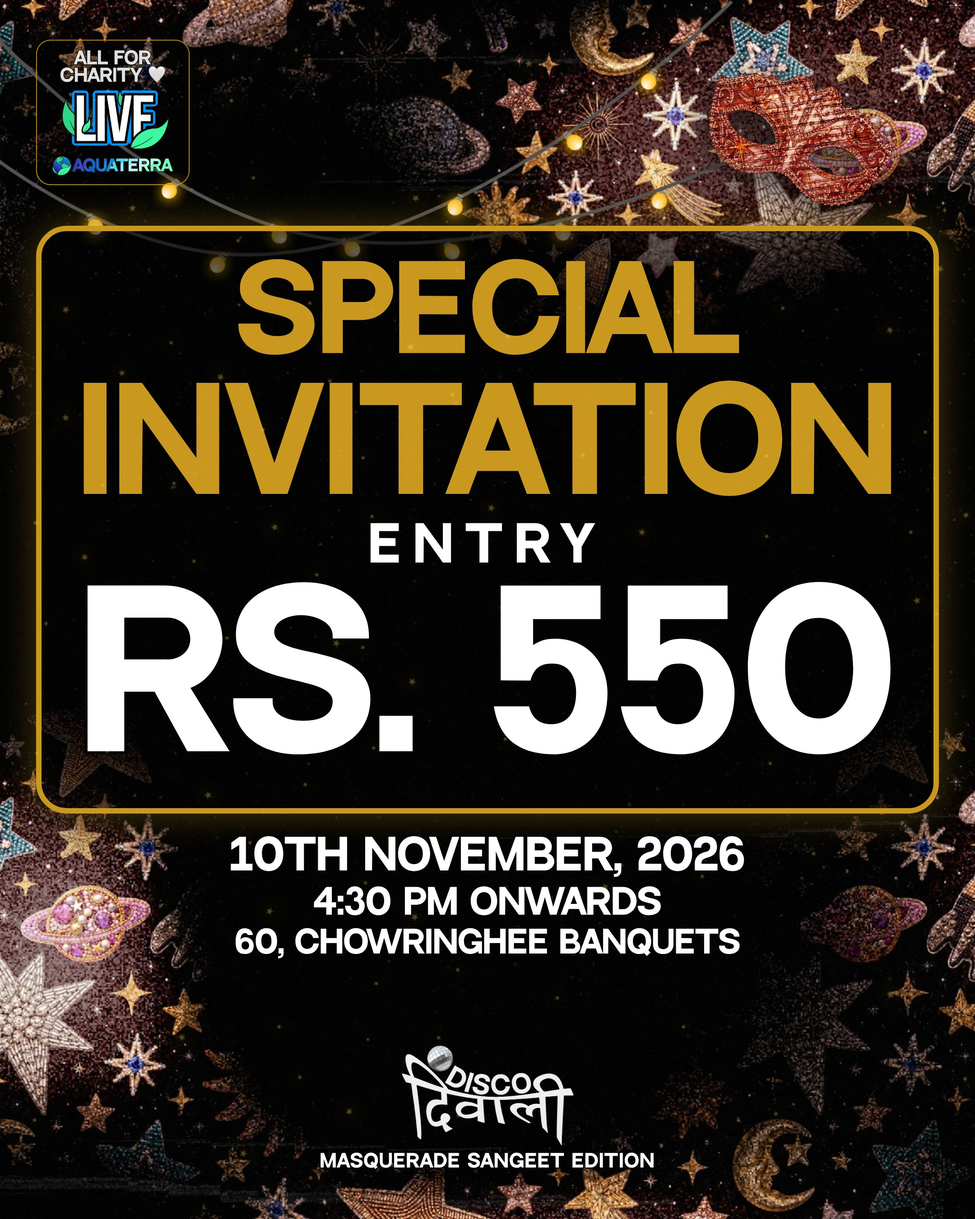
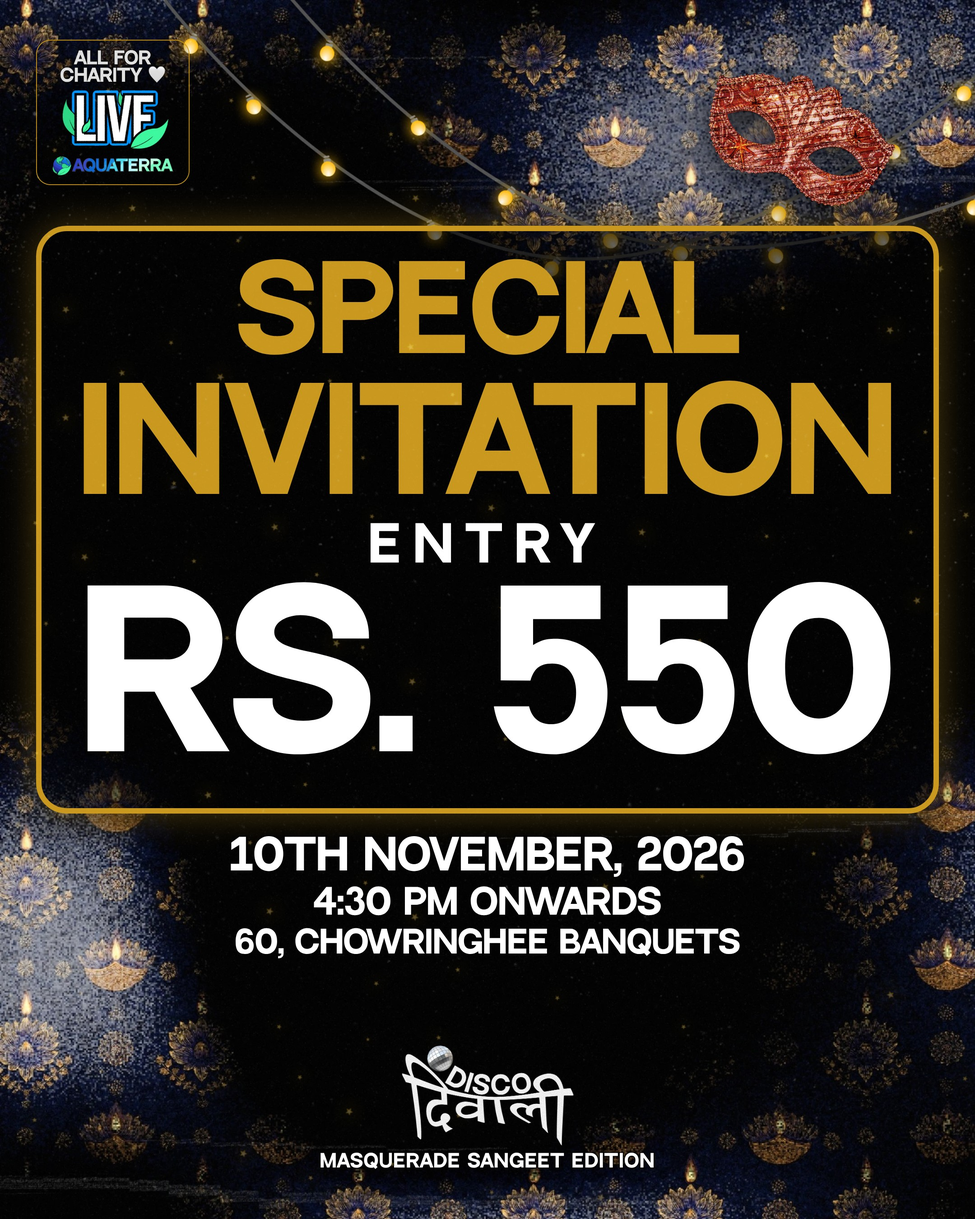
Special invitation poster v5: blue diya ground (the approved blue effect used by the sold-out posters)
Claude-Session: https://claude.ai/code/session_01Hjb3YdETYzUX9KQBuy3LJ5

diff --git a/scratchpad/dd_invite2.py b/scratchpad/dd_invite2.py
@@ -17,9 +17,23 @@ async def fit(text, width, cap):
     return min(cap, int(100 * width / m[0]["text_w"]))
 
 
+def diya_ground(H):
+    """The approved blue diya ground (brain/DISCO_DIWALI.md, user 2026-10-14 'i want this blue effect'): black, navy and gold lotus-diya corners fading to black, string lights, gold dust, grain.
+    A story stacks TWO plates, the second flipped and faded in, so all four corners carry the pattern (engine format rule 8)."""
+    P = ['<div data-tag="plate" style="position:absolute;inset:0;z-index:0;background:#000"></div>',
+         f'<img data-tag="plate" src="{dd.uri("bg_diya_portrait.jpg")}" style="position:absolute;left:0;top:0;width:{W}px;height:{min(H, dd.BASE_H)}px;object-fit:cover;z-index:1">']
+    if H > dd.BASE_H:
+        P.append(f'<img data-tag="plate" src="{dd.uri("bg_diya_portrait.jpg")}" style="position:absolute;left:0;top:{H - dd.BASE_H}px;width:{W}px;height:{dd.BASE_H}px;object-fit:cover;z-index:1;'
+                 'transform:scaleY(-1);-webkit-mask-image:linear-gradient(to top,transparent 0%,#000 45%);mask-image:linear-gradient(to top,transparent 0%,#000 45%)">')
+    P += [f'<img data-tag="lights" src="{dd.uri("string_lights.png")}" style="position:absolute;left:170px;top:-40px;width:1100px;z-index:5">',
+          f'<img data-tag="plate" src="{dd.uri("sparkles.png")}" style="position:absolute;inset:0;width:{W}px;height:{H}px;object-fit:cover;z-index:30;mix-blend-mode:screen;opacity:.55;pointer-events:none">',
+          f'<img data-tag="plate" src="{dd.uri("grain.png")}" style="position:absolute;inset:0;width:{W}px;height:{H}px;object-fit:cover;z-index:31;mix-blend-mode:screen;opacity:.35;pointer-events:none">']
+    return "".join(P)
+
+
 async def build(H):
     story = H > 1350
-    s = Sign(W, H)
+    s = Sign(W, H); s.parts = [diya_ground(H)]
     top = 210 if story else 44
     s.parts.append(f'<img data-tag="badge" src="{dd.uri("live_badge.png")}" style="position:absolute;left:40px;top:{top}px;width:170px;z-index:20">')
     s.els.append(("badge", 40, top, 170, round(170 * 1005 / 1061)))
